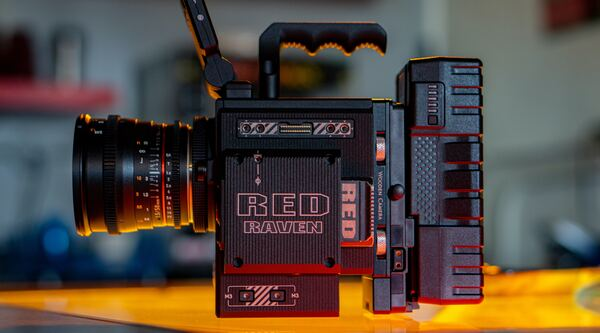
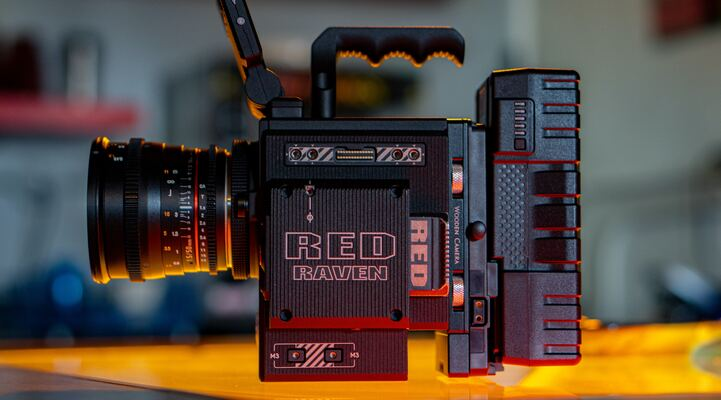
Equipment section initial styling
- Added images
- Updated the text
- Styled the filter buttons
*have to adjust the image height to correspond with the layout

diff --git a/index.html b/index.html
@@ -15,11 +15,11 @@
         </div>
         <!-- nav links -->
         <ul class="nav-btns">
-            <li><a href="#">Home</a></li>
-            <li><a href="#">Equipment</a></li>
-            <li><a href="#">Packages</a></li>
-            <li><a href="#">About</a></li>
-            <li><a href="#">Contact</a></li>
+            <li><a href="#home">Home</a></li>
+            <li><a href="#equipment">Equipment</a></li>
+            <li><a href="#packages">Packages</a></li>
+            <li><a href="#about">About</a></li>
+            <li><a href="#contact">Contact</a></li>
         </ul>
         <!-- hamburger menu -->
         <div class="burger">
@@ -38,7 +38,7 @@
         </div>
     </nav>
     <!-- header -->
-    <header>
+    <header id="home">
         <img src="assets/equipment/header-section/header-img.png" alt="camera header photo">
         <div class="header-content">
             <h1>Welcome to Scene Setters</h1>
@@ -66,73 +66,89 @@
                 <!-- Equipment -->
                 <div class="col-6 col-sm-6 col-md-4 col-lg-3">
                     <a href="#">
-                        <img src="camera1" alt="" data-filters="camera">
+                        <img src="assets/equipment/camera/red-camera.jpg" alt="" data-filters="red camera">
                         <div class="eqipment-info">
-                            <h5 class="equipment-title">Camera 1</h5>
-                            <p class="equipment-text">Description of camera 1</p>
+                            <h5 class="equipment-title">RED Camera</h5>
+                            <p class="equipment-text">The RED camera is a high-end digital cinema camera known for
+                                 its exceptional image quality, dynamic range, and versatility, making it a top choice 
+                                 for professional filmmakers.
+                                </p>
                         </div>
                     </a>
                 </div>
                 <div class="col-6 col-sm-6 col-md-4 col-lg-3">
                     <a href="#">
-                        <img src="lighting1" alt="" data-filters="lighting">
+                        <img src="assets/equipment/lighting/red-lighting.jpg" alt="video shoot with lighting" data-filters="lighting">
                         <div class="eqipment-info">
                             <h5 class="equipment-title">Lighting</h5>
-                            <p class="equipment-text">Description of lighting 1</p>
+                            <p class="equipment-text">Illuminate your creativity with our high-quality LED lights, 
+                                perfect for capturing stunning visuals in music videos and other creative productions.</p>
                         </div>
                     </a>
                 </div>
                 <div class="col-6 col-sm-6 col-md-4 col-lg-3">
                     <a href="#">
-                        <img src="audio1" alt="" data-filters="audio">
+                        <img src="assets/equipment/props/green-screen.jpg" alt="person in front of green screen" data-filters="props">
                         <div class="eqipment-info">
-                            <h5 class="equipment-title">Audio</h5>
-                            <p class="equipment-text">Description of camera 1</p>
+                            <h5 class="equipment-title">Green screen (10ft by 12ft)</h5>
+                            <p class="equipment-text">Green screens provide endless possibilities for creative backgrounds and settings
+                                 in your videos and photos.
+                                </p>
                         </div>
                     </a>
                 </div>
                 <div class="col-6 col-sm-6 col-md-4 col-lg-3">
                     <a href="#">
-                        <img src="lenses" alt="" data-filters="lenses">
+                        <img src="assets/equipment/audio/shotgun-mic.jpg" alt="shotgun microphone" data-filters="audio">
                         <div class="eqipment-info">
-                            <h5 class="equipment-title">Lenses</h5>
-                            <p class="equipment-text">Description of lense</p>
+                            <h5 class="equipment-title">Sennheiser Shotgun Mic</h5>
+                            <p class="equipment-text">Capture crystal-clear audio with our top-of-the-line Sennheiser shotgun mic, 
+                                perfect for capturing dialogue and sound effects on set.
+                            </p>
                         </div>
                     </a>
                 </div>
                 <div class="col-6 col-sm-6 col-md-4 col-lg-3">
                     <a href="#">
-                        <img src="camera2" alt="" data-filters="camera">
+                        <img src="assets/equipment/camera/canon-eos_camera.jpg" alt="canon camera"  data-filters="camera">
                         <div class="eqipment-info">
-                            <h5 class="equipment-title">Camera 2</h5>
-                            <p class="equipment-text">Description of camera 1</p>
+                            <h5 class="equipment-title">Canon EOS R </h5>
+                            <p class="equipment-text">Capture stunning photos and videos with the Canon EOS. This high-quality camera
+                                 is perfect for any project, from commercial shoots to personal creative endeavors.
+                                </p>
                         </div>
                     </a>
                 </div>
                 <div class="col-6 col-sm-6 col-md-4 col-lg-3">
                     <a href="#">
-                        <img src="props1" alt="" data-filters="props">
+                        <img src="assets/equipment/camera-accessories/hand-held_gimbal.jpg" alt="handheld gimbal" data-filters="camera-accessories">
                         <div class="eqipment-info">
-                            <h5 class="equipment-title">Props 1</h5>
-                            <p class="equipment-text">Description of props 1</p>
+                            <h5 class="equipment-title">DJI Ronin-S Handheld Gimbal</h5>
+                            <p class="equipment-text">Get smooth and stable footage with our handheld gimbal, 
+                                perfect for adding professional polish to your shots.
+                            </p>
                         </div>
                     </a>
                 </div>
                 <div class="col-6 col-sm-6 col-md-4 col-lg-3">
                     <a href="#">
-                        <img src="camera-acc" alt="" data-filters="camera-accessories">
+                        <img src="assets/equipment/lenses/camera-lense.jpg" alt="camera lense" data-filters="lenses">
                         <div class="eqipment-info">
-                            <h5 class="equipment-title">Camera-acc</h5>
-                            <p class="equipment-text">Description of camera-acc</p>
+                            <h5 class="equipment-title">Canon EF 50mm Lens</h5>
+                            <p class="equipment-text">Capture the perfect shot every time with the Canon EF 50mm lens, 
+                                delivering stunning image quality and a beautiful blurred background effect.
+                            </p>
                         </div>
                     </a>
                 </div>
                 <div class="col-6 col-sm-6 col-md-4 col-lg-3">
                     <a href="#">
-                        <img src="props2" alt="" data-filters="props">
+                        <img src="assets/equipment/props/chains-stools.jpg" alt="rustic area with a table and charis" data-filters="props">
                         <div class="eqipment-info">
-                            <h5 class="equipment-title">Prop 2</h5>
-                            <p class="equipment-text">Description of props 2</p>
+                            <h5 class="equipment-title">Retro Furniture Set</h5>
+                            <p class="equipment-text">Rent our vintage-inspired table and chairs to create a warm and inviting atmosphere on set. 
+                                Perfect for music videos, photo shoots, and more!
+                            </p>
                         </div>
                     </a>
                 </div>

diff --git a/styles.css b/styles.css
@@ -10,6 +10,7 @@
     --primary-color: #fff;
     --secondary-color: #2E2E2E;
     --detail-color: #BB3300;
+    --heading-fontsize: 2rem;
 
 }
 
@@ -174,4 +175,92 @@ header button:hover {
 
 header button a:hover {
     color: var(--primary-color);
+}
+
+
+/* EQUIPMENT SECTION */
+#equipment {
+    background-color: var(--primary-color);
+    padding: 5rem 0;
+    text-align: center;
+}
+
+#equipment h2{
+    text-align: center;
+    margin-bottom: 3rem;
+    font-size: var(--heading-fontsize);
+}
+
+/* this is the container */
+.filter-buttons {
+    display: flex;
+    justify-content: center;
+    align-items: center;
+    flex-wrap: wrap;
+    margin-bottom: 3.125rem;
+    list-style-type: none;
+}
+
+/* individual buttons */
+.filter-button {
+    display: inline-block;
+    padding: 0.75rem 1.875rem;
+    border-radius: 0.5rem;
+    margin: 0.625rem;
+    background-color: var(--primary-color);
+    color: var(--secondary-color);
+    border: 0.125rem solid var(--detail-color);
+    font-size: 1.125rem;
+    font-weight: 600;
+    transition: all 0.3s ease-in-out;
+    cursor: pointer;
+}
+
+.filter-button:hover,.filter-button.active  {
+    background-color: var(--detail-color);
+    color: var(--primary-color);
+    border: 0.125rem solid var(--secondary-color);
+}
+
+.row {
+    display: flex;
+    flex-wrap: wrap;
+    justify-content: center;
+    gap: 1rem;
+}
+
+.col-6, .col-sm-6 {
+    flex: 0 0 50%;
+    max-width: 50%;
+}
+
+.col-md-4 {
+    flex: 0 0 33.33333%;
+    max-width: 25%
+}
+
+.col-lg-3 {
+    flex: 0 0 25%;
+    max-width: 25%;
+}
+
+#equipment img {
+    width: 100%;
+    height: auto;
+    display: block;
+    margin-bottom: 1.25rem;
+}
+
+.equipment-info {
+    text-align: center;
+}
+
+.equipment-title {
+    font: 1.5rem;
+    font-weight: 400;
+    margin-bottom: 0.625rem;
+}
+
+.equipment-text {
+    font-size: 1rem;
 }
